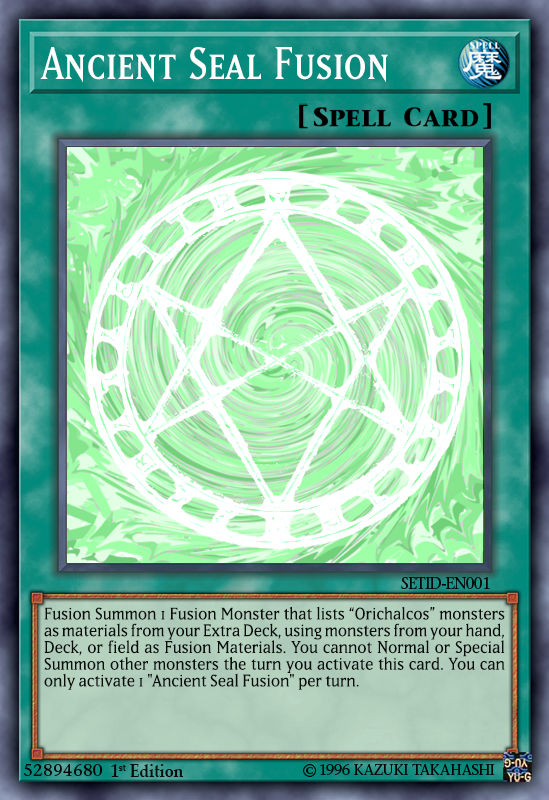
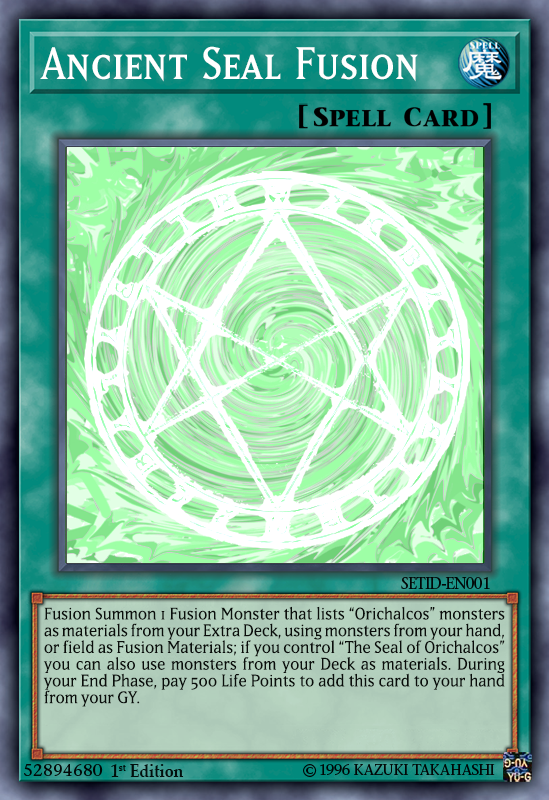
Update

Changed region(s): [[0.0619, 0.7812, 0.929, 0.875], [0.0619, 0.0312, 0.7741, 0.125]]

diff --git a/Scripts/cards_db.js b/Scripts/cards_db.js
@@ -1389,7 +1389,7 @@ var CARDS_DB =
             "ATK": 0,
             "DEF": 0,
             "Attribute": "",
-            "Effect": "Fusion Summon 1 Fusion Monster that lists \u201cOrichalcos\u201d monsters as materials from your Extra Deck, using monsters from your hand, Deck, or field as Fusion Materials. You cannot Normal or Special Summon other monsters the turn you activate this card. You can only activate 1 \"Ancient Seal Fusion\" per turn."
+            "Effect": "Fusion Summon 1 Fusion Monster that lists \u201cOrichalcos\u201d monsters as materials from your Extra Deck, using monsters from your hand, or field as Fusion Materials; if you control \u201cThe Seal of Orichalcos\u201d you can also use monsters from your Deck as materials. During your End Phase, pay 500 Life Points to add this card to your hand from your GY."
         }
     },
     {

diff --git a/Scripts/decks.js b/Scripts/decks.js
@@ -69,8 +69,8 @@ var DECKS_LIST = [
       { "type": "Deck", "name":"burning_will_for_the_seal", "amount":2},
       { "type": "Deck", "name":"arrogance_of_orichalcos", "amount":2},
       { "type": "Deck", "name":"attack_guidance_barrier", "amount":2},
-      { "type": "Deck", "name":"polymerization_orichalcos", "amount":3},
-      { "type": "Deck", "name":"call_of_the_orichalcos_servant", "amount":1},
+      { "type": "Deck", "name":"polymerization_orichalcos", "amount":1},
+      { "type": "Deck", "name":"call_of_the_orichalcos_servant", "amount":2},
       { "type": "Deck", "name":"divine_basilisk_geh", "amount":1},
       { "type": "Deck", "name":"eternal_divine_wrath", "amount":1},
       { "type": "Deck", "name":"impudence_of_orichalcos", "amount":2},
